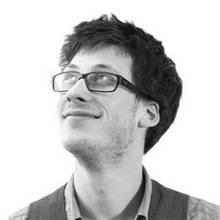
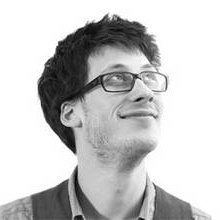
[upd] presentation

diff --git a/presentation/js/inouit.js b/presentation/js/inouit.js
@@ -7,7 +7,7 @@
     };
 
     var refreshBreadCrumb = function () {
-        var $current = $('section.present').not('.stack');
+        var $current = $('section.present').last()
         var $li = $('<li/>');
         $('#breadcrumb li').not(':first')
         .remove();

diff --git a/presentation/css/source/theme.scss b/presentation/css/source/theme.scss
@@ -183,7 +183,7 @@ body {
   li:first-letter { text-transform: uppercase; }
 }
 .reveal section{
-  img { border: 0; }
+  img { border: 0; background-color: transparent; }
   .photo { margin: 20px auto; border-radius: 110px; }
 
   .align-left { text-align: left; }

diff --git a/presentation/css/theme.css b/presentation/css/theme.css
@@ -201,7 +201,8 @@ body {
     text-transform: uppercase; }
 
 .reveal section img {
-  border: 0; }
+  border: 0;
+  background-color: transparent; }
 .reveal section .photo {
   margin: 20px auto;
   border-radius: 110px; }

diff --git a/presentation/index.html b/presentation/index.html
@@ -33,7 +33,7 @@
 
         <div class="reveal">
             <ul id="breadcrumb" class="breadcrumb">
-                <li>T3Uni14</li>
+                <li>#T3Uni14</li>
             </ul>
 
             <div class="slides">

diff --git a/presentation/templates/_index.html b/presentation/templates/_index.html
@@ -33,7 +33,7 @@
 
         <div class="reveal">
             <ul id="breadcrumb" class="breadcrumb">
-                <li>T3Uni14</li>
+                <li>#T3Uni14</li>
             </ul>
 
             <div class="slides">

diff --git a/presentation/slides/t3-install.md b/presentation/slides/t3-install.md
@@ -4,25 +4,33 @@
 <table class="reveal">
 	<thead>
 		<tr>
-			<th width="48%">Installation</th>
+			<th width="48%"><img src="img/ico_install.png" width="50" alt=""/> Installation</th>
 			<th width="4%" class="vs">VS</th>
-			<th width="48%">Duplication</th>
+			<th width="48%"><img src="img/ico_clone.png" width="50" alt=""/> Script de duplication</th>
 		</tr>
 	</thead>
 	<tbody>
 		<tr>
 			<td><ul class="fragment fade-in">
-				<li>3 étapes à la portée de tous</li>
-				<li>xxx Package</li>
+				<li>3 étapes simples</li>
+				<li>Installation d'un package</li>
 	</ul></td>
 			<td>
 			<td><ul class="fragment fade-in">
-				<li>3 questions</li>
-				<li>déploiement sur plusieurs architectures</li>
-				<li>configuration Apache, GIT, fichiers locaux, ...</li>
-				<li>installation/configuration des extensions les plus courantes</li>
-				<li>configuration TS de base (menus, logo, favicon, ...)</li>		
+				<li>2 questions (nom d'utilisateur, nom de projet)</li>
+				<li>Configuration des extensions systèmatiques</li>
+				<li>Configuration Typoscript de base (menus, logo, favicon, ...)</li>
+				<li>Déploiement sur plusieurs postes</li>
+				<li>Configuration serveur, versionning, fichiers locaux, ...</li>
 			</ul></td>
 		</tr>
 	</tbody>
-</table>
+</table> 
+
+note:
+Dois-je installer un typo, où dois-je en dupliquer un ?<br />
+Depuis quelques années, nous avons vu fleurir des sites pré-construit, des *installation package*, des *twitter bootstrap*, ... <br />
+A nos yeux, ce sont d'**excellents outils pour une présentation**, mais ils sont **peu utilisables** au moment de commencer un site. Pourquoi ? <br /> 
+Parce qu'ils font **beaucoup trop de choses** ! Quand j'installe un site, ce qui me préoccupe **en premier** ne devrait pas être de **supprimer des pages**, d'**assainir une feuille de style**. Je n'ai pas non plus envie de configurer un virtual host, de dupliquer mon site sur l'ensemble des serveurs de développement et de test.<br />
+Non ! Ce que j'ai envie de faire c'est de commencer le **travail de création** pour lequel j'apporte une **vraie valeur ajoutée**.<br />
+Inouit aurait pu choisir de faire un **Inouit Package**, mais comme je viens de le dire, nos besoins vont bien **au-delà du framework**. Aussi nous  sommes nous tournés vers un **script de duplication**. Quelles différences celà fait ?

diff --git a/presentation/slides/t3-skin-frontend.md b/presentation/slides/t3-skin-frontend.md
@@ -1,14 +1,19 @@
-<!-- .slide: data-breadcrumb="typo3,skin, front-end" -->
-#skin, le *Front-end*
-<ul>
-<li class="fragment fade-in">La continuité du back-end</li>
-<li class="fragment fade-in">une base solide</li>
-<li class="fragment fade-in">automatisée !</li>
-</ul>
+<!-- .slide: data-breadcrumb="typo3,skin, Grunt : le sanglier qui a changé ma vie" -->
+#Automatisation et *Front-end*
+<table class="reveal">
+  <tr>
+    <td width="33%"><img src="img/logo_grunt.png" height="150" alt=""/></td>
+    <td width="33%"><img src="img/logo_autoprefixer.png" height="150" alt=""/></td>
+    <td width="34%"><img src="img/logo_bower.png" height="150" alt=""/></td>
+  </tr>
+</table>
+<table class="reveal">
+  <tr>
+    <td width="50%"><img src="img/logo_coffeescript.png" height="150" alt=""/></td>
+    <td width="50%"><img src="img/logo_sass.png" height="150" alt=""/></td>
+  </tr>
+</table>
 
 note:
-  Les fichiers nécessaires **HTML, CSS, JS**, qu'ils viennent d'un **tierce partie ou maison**, qu'ils utilisent des **Pré-processeur** ou **non** ont une base **commune** à travers les sites.<br>
-  Tout est embarqué dans **skin**<br>
-  Par exemple cette base va permettre le rendue des **colonages et tranches**<br>
-  Le philosophie s'applique aussi au Front-end, l'**Automatisation**.<br>
-  Notre version va aussi inclure une serie de taches **Grunt** pour un **confort** de **dev/test** accrue (**browserSync**, **compilation**, **Génération de doc**)
+Puisqu'on parle de gabarit de page, j'aimerais m'attarder quelques secondes sur l'**automatisation** des tâches **tout au long du projet**. Sans entrer dans le **débat du pour ou contre les pré-processeurs** (tels que SASS, LESS ou autre), l'utilisation de **post-processeurs** est devenue, à nos yeux, **indispensable**. Imaginez un monde où vous n'avez plus à **compiler vos pré-processeurs** JS ou CSS, un monde qui **préfixe** automatiquement les fonctions dépréciés, qui vous avertit des **erreurs**, **compile**, **teste**, génère une **documentation**, **rafraîchit votre navigateur**. Je vois quelques yeux qui brillent là. Combien d'entre vous font encore au moins une de ces tâches à la main alors qu'elle pourrait être automtisée avec un post-processeur ?<br />
+**Et oui, quand on a la fainéantise dans les gènes, on se doit d'être malin. ;)**

diff --git a/presentation/slides/t3-skinFlex.md b/presentation/slides/t3-skinFlex.md
@@ -1,9 +1,16 @@
 <!-- .slide: data-breadcrumb="typo3,skinFlex" -->
 #Extension
 ##*skinFlex*
+<table class="reveal">
+    <tr valign="middle">
+        <td width="50%" style="vertical-align: middle"><img src="img/screen3.png" class="fragment shrink"  data-fragment-index="1" width="405" alt=""/></td>
+        <td width="50%" style="position: relative; vertical-align: middle"><img src="img/screen4.png" class="fragment grow"  data-fragment-index="1" width="311" alt=""/>
+        <img src="img/screen5.png" class="fragment fade-in"  data-fragment-index="2" style="position: absolute; top: 0; bottom: 0; left: 0; right: 0;" width="405" alt=""/>
+        </td>
+    </tr> 
+</table>
 
 note:
-  Pour permettre à nos **clients** d'avoir le **contrôle** sur des **mises en page avancée** sans les contraindre à **maîtriser des outils complexe**, les **contenus flexibles** nous paraissent la solution la plus approprié.<br>
-  L'extension **grid-element**, malgré les réticences de son développeur, permet d'atteindre ce but.<br>
-  La **configuration** de ces éléments est **indépendante de la base de donnée**, ce qui facilite leurs **création**, **édition**, **réutilisation**.
-  Insertion des scripts **"à la demande"**<br>
+Une dernière extension pré-installée est **skinFlex**. En se basant sur gridelements, elle permet au client de faire du **colonnage simple**... Simple et **un peu plus avancé** puisque nous permettons aux nôtres de pouvoir régler par colonnes certains styles (**bordure**, **espacement**, **image de fond**, ...) et de faire des **mises en page avancées** sans que nous n'ayons **rien à configurer**.
+**Passage de témoin à Greg**
+Viens ensuite l'épineux débat de l'**utilisation de contenu pré-configuré** (aussi appelés FCE), mais si vous voulez que nous ayons ce débat, il faudra me **payer un coup** alcoolisé ou non peu importe. Par les temps qui courent, je ne vais pas faire le difficile. Quoiqu'il en soit, nous utilisons des FCE (sans templavoilà) et nos clients en raffolent. Si nous avons décidés de les regrouper dans skinFlex, c'est pour pouvoir les **importer/exporter** très facilement **sans alourdir inutilement skin** avec des élements qui sont **indépendants**.

diff --git a/presentation/slides/t3-skinDummy.md b/presentation/slides/t3-skinDummy.md
@@ -1,9 +1,17 @@
-<!-- .slide: data-breadcrumb="typo3,skinDummy" -->
+<!-- .slide: data-breadcrumb="typo3,skinDummy : la base" -->
 #Extension
 ##*skinDummy*
+<table class="reveal">
+    <tr valign="middle">
+        <td width="50%" style="vertical-align: middle"><img src="img/screen1.png" class="fragment shrink"  data-fragment-index="1" width="405" alt=""/></td>
+        <td width="50%" style="vertical-align: middle"><img src="img/screen2.png" class="fragment grow"  data-fragment-index="1" width="311" alt=""/></td>
+    </tr> 
+</table>
+
 
 note:
-Configuration de base de tous les sites de l'agence<br />
-  - rien ne change dans cette extension<br />
-  - configuration TS de base (relation backend_layout/template, menu, contenu des colonnes)<br />
-  - configuration TSConfig de base
+Typo3 est installé ! Premier constat : en lieu et place des pages d'erreurs que nous avons tous pris l'habitude de voir, j'ai un site pré-configuré. Détaillons ce que le script de duplication a installé.<br />
+Une première extension : **skinDummy**. Si elle n'apporte pas de réelle évolution, elle sert de base à tout ce qui va suivre. Cette extension est un **modèle** que d'autres plugins viendront **surcharger**.<br /> 
+Elle contient principalement des éléments par défaut (**relation backend_layout** / **gabarit frontend**, un **menu pré-construit**, les **requêtes de récupération de contenus de colonnes**, ...)<br />
+Elle contient également une configuration basique du backend (pour l'**éditeur wysiwyg** par exemple). Et c'est tout ! Cette extension représente ce que vous aurez de commun à tous vos sites.<br />
+**Pourquoi l'isoler du reste ?** Pour que vous n'ayez pas à nettoyer une installation trop complète. Comprenez que dans cette partie, comme dans toute la présentation, nous ne cherchons pas à avoir l'installation la plus complète possible, mais bien celle qui nous fera gagner un maximum de temps. Dans ce cas, comme souvent en développement, il est bien **plus facile d'ajouter** des fonctionnalités **que d'en supprimer proprement**. Ces choix pour skinDummy sont ceux qui correspondent à nos besoins. A vous de l'adapter à **vos besoins**.

diff --git a/presentation/slides/t3-skin.md b/presentation/slides/t3-skin.md
@@ -1,10 +1,14 @@
-<!-- .slide: data-breadcrumb="typo3,skin" -->
+<!-- .slide: data-breadcrumb="typo3,skin : le thème" -->
 #Extension
 ##*skin*
+<table class="reveal">
+    <tr valign="middle">
+        <td width="50%" style="vertical-align: middle"><img src="img/screen2.png" class="fragment shrink"  data-fragment-index="1" width="405" alt=""/></td>
+        <td width="50%" style="vertical-align: middle"><img src="img/screen3.png" class="fragment grow"  data-fragment-index="1" width="311" alt=""/></td>
+    </tr> 
+</table>
 
 note:
-Configuration pré-remplie et amenée à changer au fur et à mesure de la vie du site (c'est le thème qui surcharge skinDummy en fait)<br />
-  - assets + templates<br />
-  - configuration TS du thème<br />
-  - configuration de realurl<br />
-  - surcharge des extensions (TS, templates, ...)
+L'extension skin correspond au **thème de votre site**. Elle vient **puisez des éléments dans skinDummy**, en **surcharger** d'autre et représente ce qui sera au final le **coeur de votre projet**. Vous y déclarez vos **templates**, vos blocs de **configuration typoscript**, vos **assets**, la **surcharge des extensions**, ... L'intégralité de votre intervention sur le site est stocké ici.<br />
+Si vous êtes amenés quelques années après la création du site, à le refondre entièrement, vous supprimez l'extension, en créez une nouvelle et vous n'aurez laissé aucune trace de votre premier passage.<br />
+Notre choix est que skin contienne de base une **template** ainsi que les **feuilles de style** et **scripts** qui lui sont associés mais surtout, rien de superflu ! Si vous souhaitez utiliser bootstrap ou autre, vous êtes libres de le faire, et ça peut tout à fait s'inscrire dans cette démarche. Mais une fois de plus, pour nous, **le trop est l'ennemi du bien** et je vous enjoints à trouver le même équilibre pour simplifier vos débuts de projet.

diff --git a/presentation/slides/introduction.md b/presentation/slides/introduction.md
@@ -3,8 +3,8 @@
 <span class="author">Jules Renard</span></blockquote>
 
 note:
-**Je suis un paresseux**, un vrai. Un paresseux qui depuis **12 ans** cherche à **optimiser son travail** pour oublier à jamais les tâches rébarbatives. Les devs d'Inouit font partie de l'ensemble du processus : **installation**, **configuration serveur**, dev **frontend**, **backend**, **intégration**, ...<br />
-Ne pensez-vous pas qu'il y a **beaucoup de tâches** qui **pourraient être automatisées** dans l'ensemble de ces domaines ? <br />
-Nous si ! <br />
-C'est le fruit de cette réflexion que nous vous présentons aujourd'hui et que nous vous livrerons en fin de présentation.<br />
-Comme moi, comme nous, je vous souhaite d'être paresseux ET heureux.
+**Je suis un paresseux**, un vrai ! Un paresseux qui comme tous les paresseux fuit comme la peste les tâches rébarbative. Un paresseux qui depuis **12 ans** cherche à **optimiser son travail** pour oublier à jamais tout ce qui s'y répète. <br />
+Chez Inouit, les développeurs font partie de l'ensemble de la chaîne de production : **configuration serveur**, **installation**, dev **frontend**/ **backend**, **intégration**, ...<br />
+Autant vous dire qu'en terme d'optimisation, il y avait de quoi faire.<br />
+Cette démarche va bien **au-delà de typo3** puisque nous l'appliquons à l'ensemble des technologies avec lesquelles nous travaillons. Ce que nous voulons vous montrer aujourd'hui, et que nous vous livrerons en fin de présentation, c'est une **voie à adopter**, une **réflexion**, une **phylosophie de travail** que vous seuls pourrez bâtir, mais pour laquelle nous vous fournissons des clefs.<br />
+Comme moi... comme NOUS, je vous souhaite d'être paresseux ET heureux.

diff --git a/presentation/slides/conclusion.md b/presentation/slides/conclusion.md
@@ -4,4 +4,5 @@
 
 
 note:
-La réflexion sur l'optimisation du travail est un **investissement à moyen terme hautement rentable**. **Basez-vous** sur ce qu'on vous a expliqué aujourd'hui, **adaptez-le**. C'est un processus **flexible** qui doit **vous ressembler** pour être adopté par vos équipes. Le passage à la version 6.2 nous a permis de **tout remettre à plat**. Nous vous livrons le résultat. N'hésitez pas à nous faire des **retours** dessus.
+La réflexion sur l'optimisation du travail est un **investissement à moyen terme hautement rentable**. Ce qu'on vous a montré aujourd'hui, c'est un processus **flexible**, **adaptable**, alors prenez le comme **base**, **cassez-le**, **personnalisez-le**. L'important c'est qu'il **vous ressemble**, qu'il ressemble aux **besoins de votre équipe**. C'est le seul moyen pour que ce soit adopté sans douleur.<br />
+Pour les versions 6.x de Typo, nous avons tout repris à zéro, aussi notre install et nos scripts ne sont pas encore parfait, mais c'est déjà une bonne base. N'hésitez pas à nous faire des **retours** dessus.
